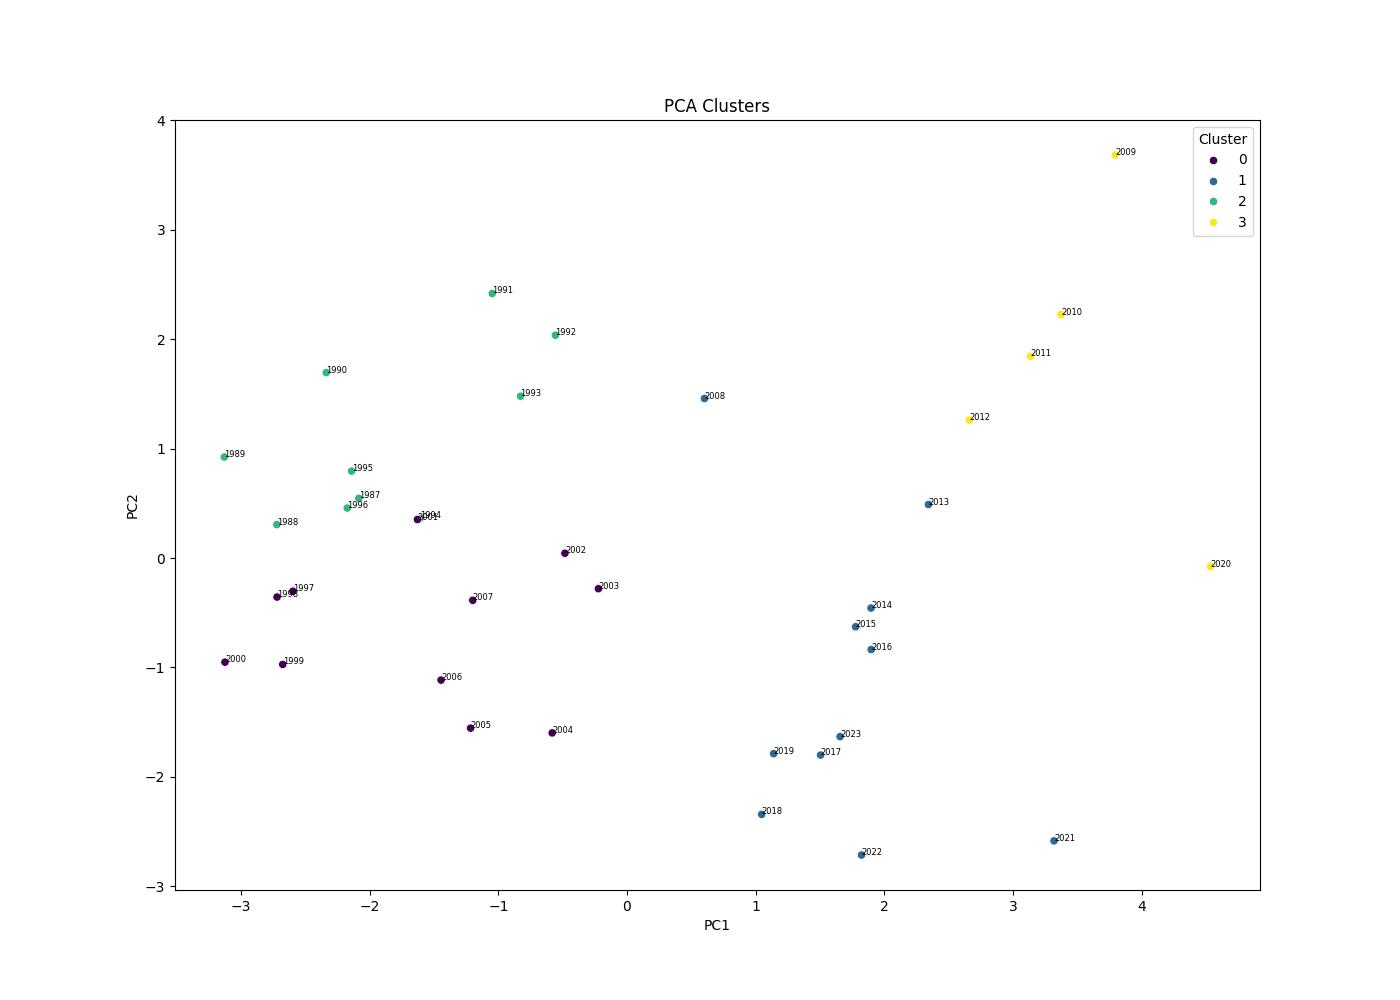
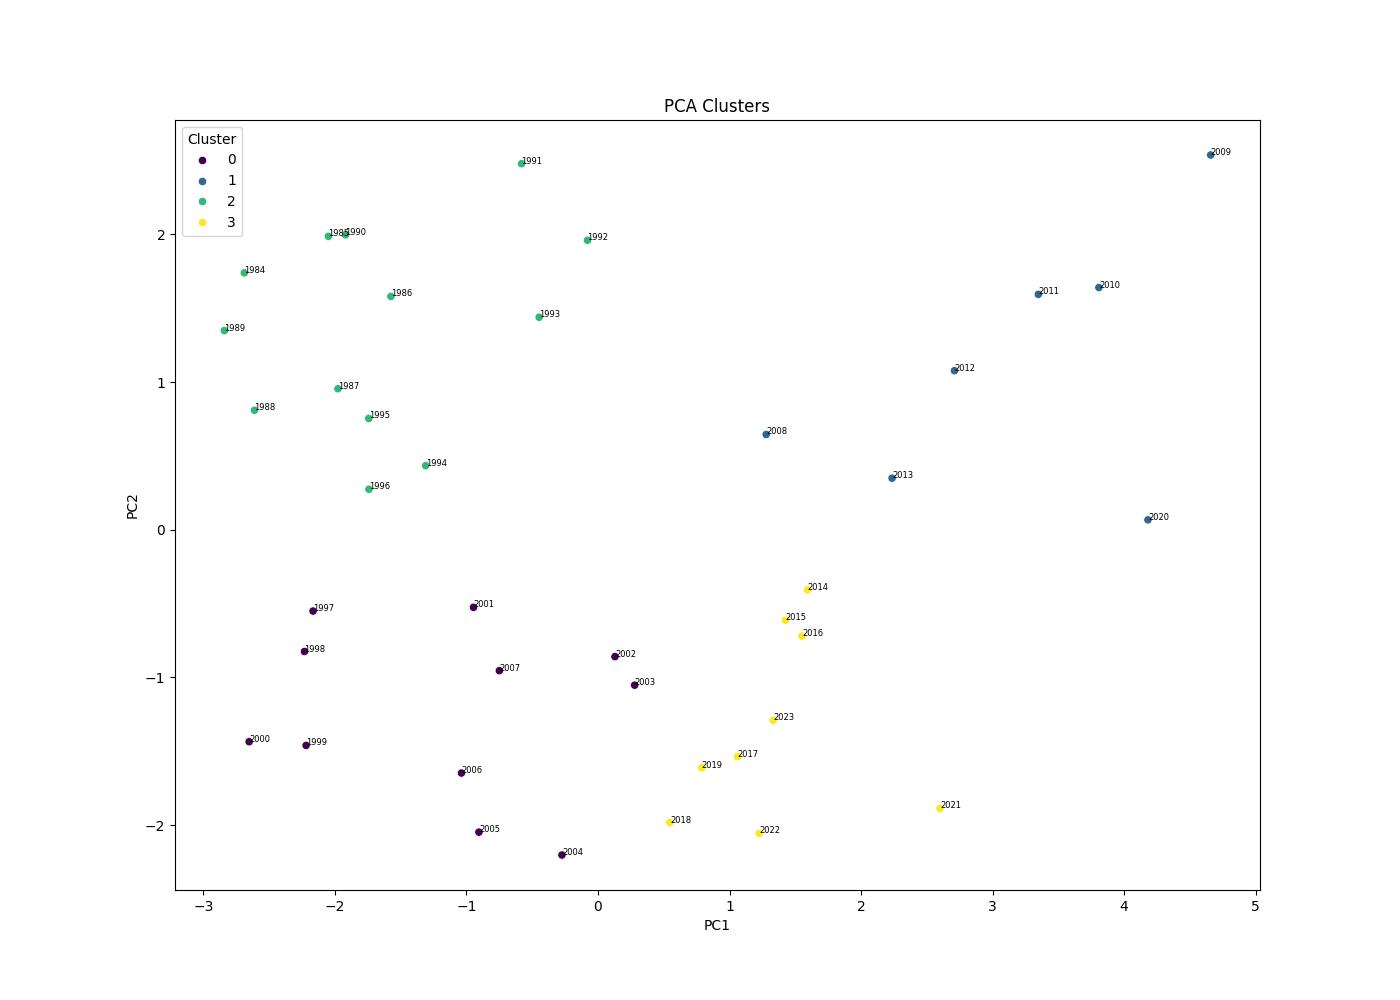
finished linear modelling'

diff --git a/model.py b/model.py
@@ -1,0 +1,51 @@
+import pandas as pd
+import numpy as np 
+import matplotlib.pyplot as plt
+
+years = [2012, 2015, 2016, 2017, 2018,2019,2020,2021,2022,2023]
+
+df = pd.read_csv('filtered.csv', index_col = 0)
+columns = df.columns
+happiness_df = pd.read_csv('Happiness Index.csv', index_col = 0)
+
+from sklearn import linear_model
+clf = linear_model.LinearRegression()
+
+X = []
+y = []
+for year in years:
+    X.append(df.loc[year, :].values.tolist())
+    happiness = happiness_df.loc[year, :].values.tolist()[0]
+    happiness = (7 - happiness) * 100
+    y.append(happiness)
+
+clf = linear_model.LinearRegression()
+clf.fit(X,y)
+
+
+from sklearn.metrics import mean_squared_error, r2_score
+predictions = clf.predict(X)
+mse = mean_squared_error(y, predictions)
+r2 = r2_score(y, predictions)
+print(df.columns.tolist())
+print("Coefficients:", clf.coef_)
+print("Intercept:", clf.intercept_)
+print("Mean Squared Error:", mse)
+print("R² Score:", r2)
+print("Predictions:", predictions)
+
+df_2024 = pd.read_csv('2024.csv', index_col=0)
+data = df_2024.loc[2024].values
+prediction = clf.predict([data])[0]
+predicted_index = 7-prediction/100
+print(predicted_index)
+
+happiness_indices = happiness_df.loc[years].values
+plt.plot(years, happiness_indices, marker = 'o', label = 'Actual Happiness Index')
+plt.plot(2024, predicted_index, 'ro', label = 'Predicted Index in 2024')
+plt.legend()
+plt.savefig('figures/happiness index.jpg')
+plt.close()
+
+
+

diff --git a/linearplot.py b/linearplot.py
@@ -1,0 +1,40 @@
+import pandas as pd
+import matplotlib.pyplot as plt
+from sklearn.linear_model import LinearRegression
+import numpy as np
+df = pd.read_csv('filtered.csv', index_col = 0)
+columns = df.columns.tolist()
+
+predictions = {}
+for column in columns:
+    years = [2012, 2013,2014,2015,2016,2017,2018,2019,2020,2021,2022,2023]
+    yearsLinear = [2012, 2013,2014,2015,2016,2017,2018,2019,2021,2022,2023]
+    
+
+    print(column)
+    df_feature = df[column].loc[years]
+    features = df[column].loc[yearsLinear].values
+    
+    yearsLinear = np.array(yearsLinear).reshape(-1,1)
+    clf = LinearRegression()
+    clf.fit(yearsLinear, features)
+
+    prediction_2024 = clf.predict([[2024]])[0]
+    predictions[column] = prediction_2024
+
+    y_pred = clf.predict(yearsLinear)
+
+
+
+    plt.plot(yearsLinear, y_pred, linestyle='--', label=f'{column} Best-Fit Line')
+    plt.plot(2024, prediction_2024, 'ro', label = f'{column} 2024 Prediction')
+    df_feature.plot(figsize = (10,6), marker = 'o', label = f'{column} Actual Data')
+    
+    plt.xlabel('Year')
+    plt.ylabel(f'{column}')
+    plt.title(f'{column}, 2012-2023')
+    plt.legend()
+    plt.savefig(f'graphs/{column}.jpg')
+    plt.close()
+pred_df = pd.DataFrame(predictions, index=[2024])
+pred_df.to_csv('2024.csv')

diff --git a/process.py b/process.py
@@ -3,7 +3,7 @@ import pandas as pd
 from pathlib import Path
 folder_path = 'raw'
 
-min_year = 1987
+min_year = 1984
 data_dict = {year: [] for year in range(min_year, 2024)}
 
 def extract_year(date_str):
@@ -42,6 +42,6 @@ results_df.to_csv('values.csv', index = True)
 # Display the results
 #print(results_df)
 
-not_used = ['New Housing Units', 'GDP Deflator', 'Gini Coefficient', 'Industrial Production Index']
+not_used = ['New Housing Units', 'GDP Deflator', 'Gini Coefficient', 'Industrial Production Index', 'Labor Participation Rate']
 results_df.drop(not_used, axis = 1, inplace = True)
 results_df.to_csv('filtered.csv', index = True)
